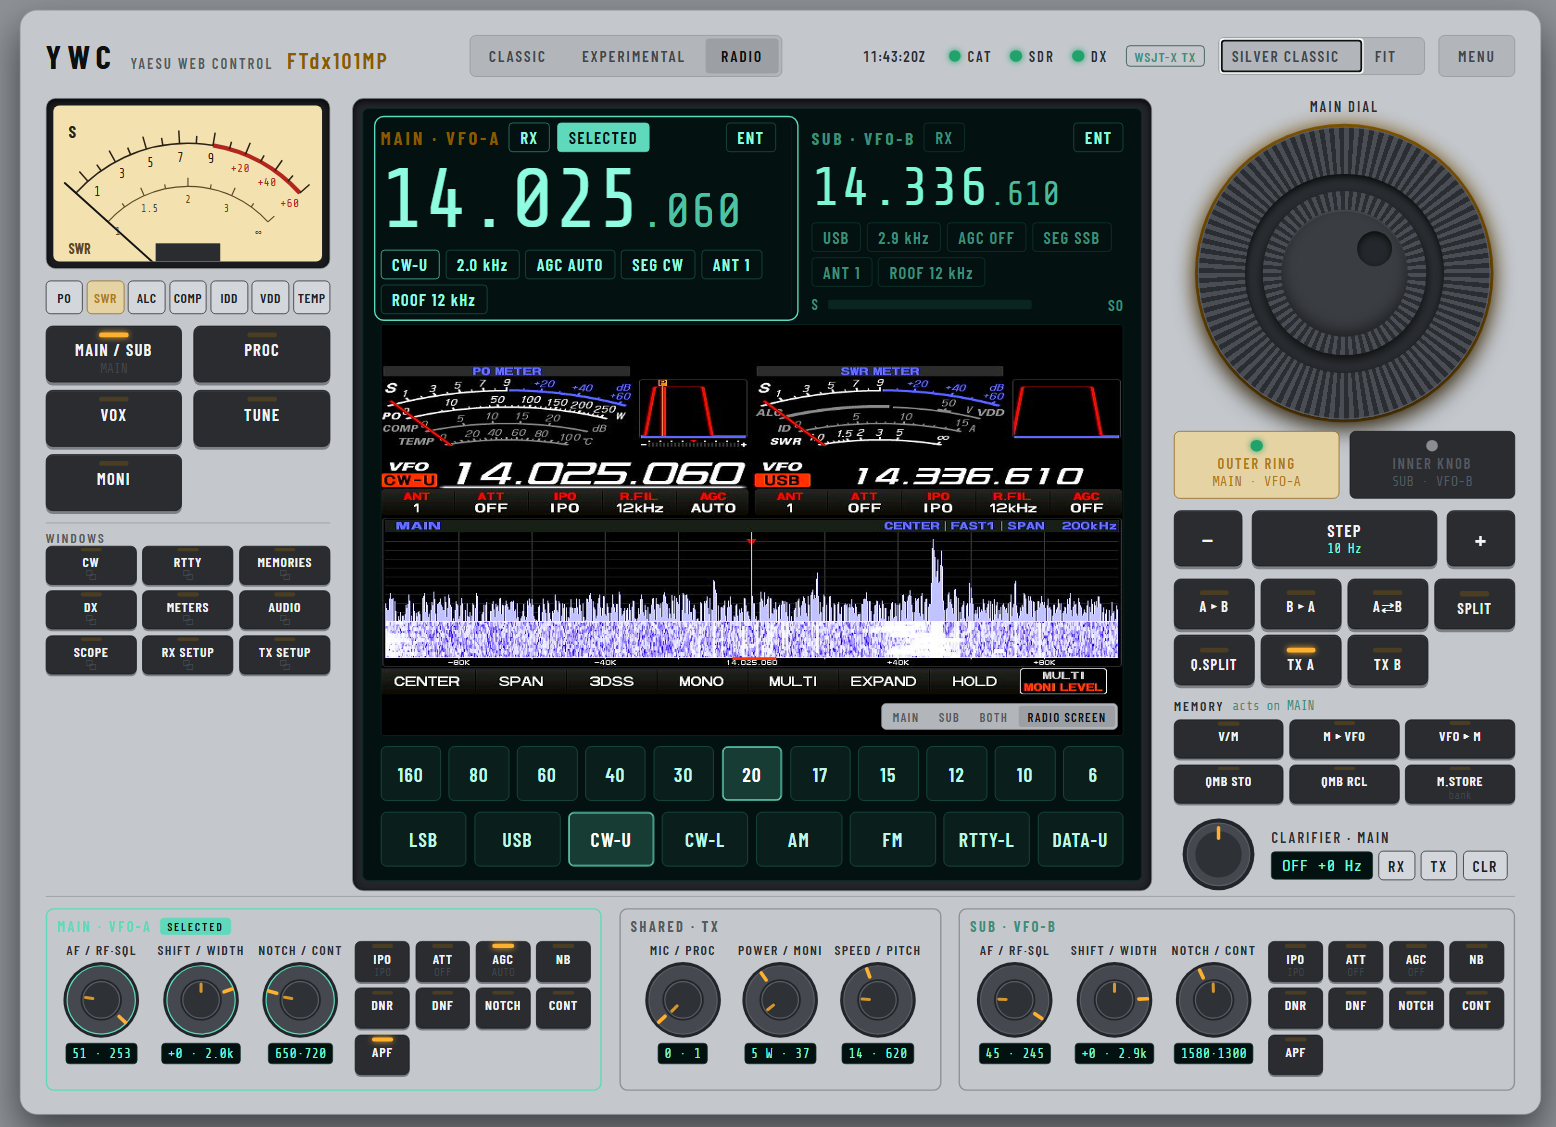
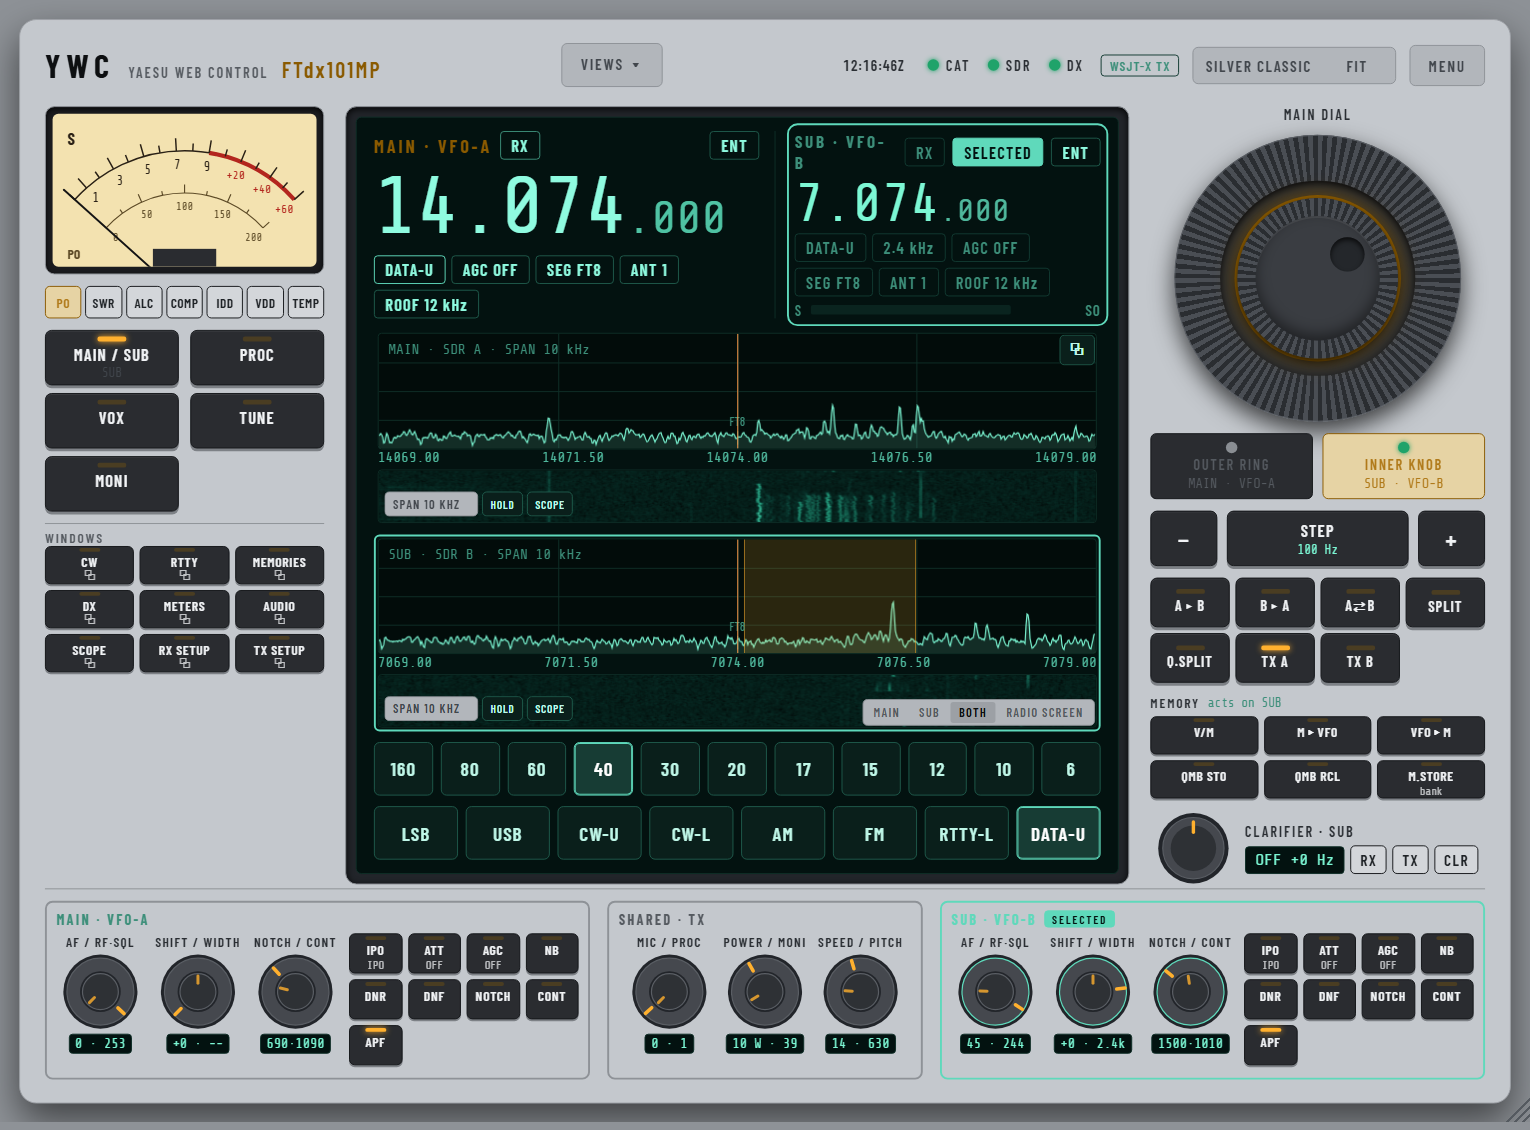
YWC: pictures from the Views build, both receivers on FT8; drop the old view-link hotspots

diff --git a/index.html b/index.html
@@ -324,13 +324,13 @@
                         <button aria-pressed="true" data-src="pictures/Radio_Both_SDRs.png"
                             data-alt="YWC Radio panel on an FTdx101MP, with an SDR spectrum and waterfall for the Main and Sub receivers one above the other">Radio panel</button>
                         <button aria-pressed="false" data-src="pictures/Radio_Night_Console.png"
-                            data-alt="YWC Radio panel in the Night Console theme">Radio panel · Night</button>
+                            data-alt="YWC Radio panel in the Night (red) theme, showing the radio's own TFT screen with Main on 20 m FT8 and Sub on 40 m FT8">Radio panel · Night</button>
                         <button aria-pressed="false" data-src="pictures/Radio_Silver_Classic.png"
-                            data-alt="YWC Radio panel in the Silver Classic theme">Radio panel · Silver</button>
+                            data-alt="YWC Radio panel in the Silver classic theme, with SDR spectrums for Main on 20 m FT8 and Sub on 40 m FT8 one above the other">Radio panel · Silver</button>
                         <button aria-pressed="false" data-src="pictures/YWC_Classic.png"
-                            data-alt="YWC Classic page with meters, the radio's TFT screen, two SDR spectrum panels and a VFO card per receiver">Classic</button>
+                            data-alt="YWC Classic page with the Views dropdown, meters, the radio's TFT screen, SDR spectrums for Main on 20 m FT8 and Sub on 40 m FT8, and a VFO card per receiver">Classic</button>
                         <button aria-pressed="false" data-src="pictures/YWC_Experimental.png"
-                            data-alt="YWC Experimental UI: a dark workspace of dockable panels for meters, levels, VFO actions, buttons, spectrum, remote audio and both VFOs">Experimental</button>
+                            data-alt="YWC Experimental UI: a dark workspace of dockable panels for meters, levels, VFO actions, buttons, remote audio, an SDR spectrum for each receiver and both VFOs">Experimental</button>
                     </div>
                     <a class="shot" href="pictures/Radio_Both_SDRs.png">
                         <img src="pictures/Radio_Both_SDRs.png"
@@ -573,13 +573,6 @@
     </footer>
 
     <script>
-        // The Radio panel screenshots show the app's own CLASSIC / EXPERIMENTAL / RADIO
-        // links. Where they sit in each picture, in its pixels: [left, top, right, bottom].
-        var VIEW_LINKS = {
-            "pictures/Radio_Night_Console.png":  { Classic: [465, 40, 557, 77], Experimental: [558, 40, 695, 77], Radio: [700, 40, 772, 77] },
-            "pictures/Radio_Silver_Classic.png": { Classic: [472, 38, 565, 75], Experimental: [566, 38, 702, 75], Radio: [706, 38, 780, 75] }
-        };
-
         // Screenshot switcher: each button swaps the picture below it.
         document.querySelectorAll(".views").forEach(function (views) {
             var link = views.querySelector(".shot");
@@ -593,25 +586,6 @@
             };
             buttons.forEach(function (btn) {
                 btn.addEventListener("click", function () { show(btn); });
-            });
-            // Clicking a view link drawn in the picture switches to that view, as the
-            // buttons do, instead of opening the full-size picture.
-            link.addEventListener("click", function (e) {
-                var links = VIEW_LINKS[link.getAttribute("href")];
-                if (!links || !img.naturalWidth) return;
-                var r = img.getBoundingClientRect();
-                var x = (e.clientX - r.left) * img.naturalWidth / r.width;
-                var y = (e.clientY - r.top) * img.naturalHeight / r.height;
-                Object.keys(links).forEach(function (view) {
-                    var b = links[view];
-                    if (x < b[0] || x > b[2] || y < b[1] || y > b[3]) return;
-                    e.preventDefault();
-                    if (view === "Radio") return;   // already showing a Radio panel
-                    var btn = Array.prototype.find.call(buttons, function (t) {
-                        return t.textContent.trim().indexOf(view) === 0;
-                    });
-                    if (btn && btn.getAttribute("aria-pressed") !== "true") show(btn);
-                });
             });
         });
     </script>
